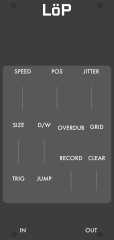
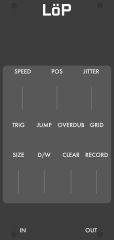
Löp control rearrange, black screw widgets, purple double-height Löp lane

diff --git a/src/loooop/Lop.cpp b/src/loooop/Lop.cpp
@@ -155,12 +155,21 @@ struct LopWidget : ModuleWidget {
         auto* display = new LoopDisplayWidget();
         display->engine = module ? &module->engine : nullptr;
         display->demoHeads = 1;
+        display->laneDiv = LoopWaveformRenderer::LOP_LANE_DIV;
+        display->laneColors = LoopWaveformRenderer::LOP_LANE_COLOR;
         // Screen rect (mm) from the SVG's screen rect element. Kept in sync
         // with vcv/res/Lop.svg and metamodule/Lop_info.hh by
         // metamodule/loooop/sync_info_positions.py — run it after any panel change.
         display->box.pos = mm2px(Vec(1.500, 10.400));
         display->box.size = mm2px(Vec(57.960, 22.350));
         addChild(display);
+
+        // Dark screws per the panel theme (the SVG's drawn screw dots are
+        // near-invisible against the background; the widgets carry the look).
+        addChild(createWidget<ScrewBlack>(Vec(RACK_GRID_WIDTH, 0)));
+        addChild(createWidget<ScrewBlack>(Vec(box.size.x - 2 * RACK_GRID_WIDTH, 0)));
+        addChild(createWidget<ScrewBlack>(Vec(RACK_GRID_WIDTH, RACK_GRID_HEIGHT - RACK_GRID_WIDTH)));
+        addChild(createWidget<ScrewBlack>(Vec(box.size.x - 2 * RACK_GRID_WIDTH, RACK_GRID_HEIGHT - RACK_GRID_WIDTH)));
 
         // Coords come from res/Lop.svg's hidden components layer (circle ids)
         // — regenerate the panel from panel-specs/lop.yaml and carry any
@@ -171,20 +180,20 @@ struct LopWidget : ModuleWidget {
         addInput(createInputCentered<PJ301MPort>(mm2px(Vec(12.16, 58.7)), module, Lop::SPEED_CV_INPUT));
         addInput(createInputCentered<PJ301MPort>(mm2px(Vec(30.48, 58.7)), module, Lop::POSITION_CV_INPUT));
         addInput(createInputCentered<PJ301MPort>(mm2px(Vec(48.8, 58.7)), module, Lop::JITTER_CV_INPUT));
-        addParam(createParamCentered<RoundBlackKnob>(mm2px(Vec(9.87, 75.05)), module, Lop::SIZE_PARAM));
-        addParam(createParamCentered<RoundBlackKnob>(mm2px(Vec(23.61, 75.05)), module, Lop::DRYWET_PARAM));
-        addParam(createLightParamCentered<OverdubButton>(mm2px(Vec(37.968, 75.05)), module, Lop::OVERDUB_PARAM, Lop::OVERDUB_R_LIGHT));
-        addParam(createParamCentered<RoundSmallBlackSnapKnob>(mm2px(Vec(51.708, 75.05)), module, Lop::GRID_PARAM));
-        addInput(createInputCentered<PJ301MPort>(mm2px(Vec(9.87, 87.4)), module, Lop::SIZE_CV_INPUT));
-        addInput(createInputCentered<PJ301MPort>(mm2px(Vec(23.61, 87.4)), module, Lop::DRYWET_CV_INPUT));
+        addInput(createInputCentered<PJ301MPort>(mm2px(Vec(9.87, 74.05)), module, Lop::TRIG_INPUT));
+        addInput(createInputCentered<PJ301MPort>(mm2px(Vec(23.61, 74.05)), module, Lop::JUMP_INPUT));
+        addParam(createLightParamCentered<OverdubButton>(mm2px(Vec(37.968, 74.05)), module, Lop::OVERDUB_PARAM, Lop::OVERDUB_R_LIGHT));
+        addParam(createParamCentered<RoundSmallBlackSnapKnob>(mm2px(Vec(51.708, 74.05)), module, Lop::GRID_PARAM));
+        addParam(createParamCentered<RoundBlackKnob>(mm2px(Vec(9.87, 91.05)), module, Lop::SIZE_PARAM));
+        addParam(createParamCentered<RoundBlackKnob>(mm2px(Vec(23.61, 91.05)), module, Lop::DRYWET_PARAM));
+        addParam(createParamCentered<VCVButton>(mm2px(Vec(37.968, 91.05)), module, Lop::CLEAR_PARAM));
+        addParam(createLightParamCentered<VCVLightButton<MediumSimpleLight<RedLight>>>(mm2px(Vec(51.708, 91.05)), module, Lop::RECORD_PARAM, Lop::RECORD_LIGHT));
+        addInput(createInputCentered<PJ301MPort>(mm2px(Vec(9.87, 103.4)), module, Lop::SIZE_CV_INPUT));
+        addInput(createInputCentered<PJ301MPort>(mm2px(Vec(23.61, 103.4)), module, Lop::DRYWET_CV_INPUT));
+        addInput(createInputCentered<PJ301MPort>(mm2px(Vec(37.968, 103.4)), module, Lop::CLEAR_TRIG_INPUT));
+        addInput(createInputCentered<PJ301MPort>(mm2px(Vec(51.708, 103.4)), module, Lop::RECORD_TRIG_INPUT));
         addInput(createInputCentered<PJ301MPort>(mm2px(Vec(7.35, 116.05)), module, Lop::AUDIO_L_INPUT));
         addInput(createInputCentered<PJ301MPort>(mm2px(Vec(17.05, 116.05)), module, Lop::AUDIO_R_INPUT));
-        addInput(createInputCentered<PJ301MPort>(mm2px(Vec(9.87, 102.1)), module, Lop::TRIG_INPUT));
-        addInput(createInputCentered<PJ301MPort>(mm2px(Vec(23.61, 102.1)), module, Lop::JUMP_INPUT));
-        addParam(createLightParamCentered<VCVLightButton<MediumSimpleLight<RedLight>>>(mm2px(Vec(37.968, 91.25)), module, Lop::RECORD_PARAM, Lop::RECORD_LIGHT));
-        addInput(createInputCentered<PJ301MPort>(mm2px(Vec(37.968, 102.1)), module, Lop::RECORD_TRIG_INPUT));
-        addParam(createParamCentered<VCVButton>(mm2px(Vec(51.708, 91.25)), module, Lop::CLEAR_PARAM));
-        addInput(createInputCentered<PJ301MPort>(mm2px(Vec(51.708, 102.1)), module, Lop::CLEAR_TRIG_INPUT));
         addOutput(createOutputCentered<PJ301MPort>(mm2px(Vec(43.91, 116.05)), module, Lop::OUT_L_OUTPUT));
         addOutput(createOutputCentered<PJ301MPort>(mm2px(Vec(53.61, 116.05)), module, Lop::OUT_R_OUTPUT));
     }

diff --git a/src/loooop/display/LoopWaveformRenderer.hpp b/src/loooop/display/LoopWaveformRenderer.hpp
@@ -26,26 +26,34 @@ public:
         {0x3F, 0x8C, 0xFF},
         {0xFF, 0xF7, 0x0A},
     };
+    // Löp's single lane draws purple — a color no Loooop head uses, so the
+    // two modules' displays can't be mistaken for each other — and at twice
+    // Loooop's lane height (height/4 vs height/8), the waveform giving up
+    // the difference. Both platforms (VCV widget, MM core) pass these.
+    static constexpr uint8_t LOP_LANE_COLOR[1][3] = {{0xBF, 0x5A, 0xF2}};
+    static constexpr int LANE_DIV = 8;
+    static constexpr int LOP_LANE_DIV = 4;
     // Window-extent bars use the head color dimmed by DIM_NUM/DIM_DEN.
     static constexpr int DIM_NUM = 2, DIM_DEN = 5;
     // A non-playing head (one-shot armed or finished, awaiting a trigger)
     // draws asleep: window bar dimmed to ARMED_NUM/ARMED_DEN, playhead
     // marker at the window-dim level instead of bright.
     static constexpr int ARMED_NUM = 1, ARMED_DEN = 5;
-    // Preferred lane band height. Use geometry() to cap the complete lane
-    // region to the actual destination height.
-    static constexpr int laneHeight(int height) {
-        return height / 8 < 3 ? 3 : height / 8;
+    // Preferred lane band height (height/laneDiv). Use geometry() to cap the
+    // complete lane region to the actual destination height.
+    static constexpr int laneHeight(int height, int laneDiv = LANE_DIV) {
+        return height / laneDiv < 3 ? 3 : height / laneDiv;
     }
     struct Geometry {
         int laneHeight;
         int lanesHeight;
         int waveHeight;
     };
-    static constexpr Geometry geometry(int height, int numHeads) {
+    static constexpr Geometry geometry(int height, int numHeads,
+                                       int laneDiv = LANE_DIV) {
         if (height <= 0 || numHeads <= 0) return {0, 0, 0};
-        const int laneH = laneHeight(height) < height / numHeads
-            ? laneHeight(height) : height / numHeads;
+        const int laneH = laneHeight(height, laneDiv) < height / numHeads
+            ? laneHeight(height, laneDiv) : height / numHeads;
         const int lanesH = numHeads * laneH;
         return {laneH, lanesH, height - lanesH};
     }
@@ -72,5 +80,6 @@ public:
     static void renderWaveform(uint32_t* buf, int width, int height,
                                const LoopEngine& engine, PackFn pack);
     static void renderLanes(uint32_t* buf, int width, int height, int laneHeight,
-                            const LoopEngine& engine, PackFn pack);
+                            const LoopEngine& engine, PackFn pack,
+                            const uint8_t (*headColors)[3] = HEAD_COLORS);
 };

diff --git a/tests/loooop/test_display_renderer.cpp b/tests/loooop/test_display_renderer.cpp
@@ -291,6 +291,36 @@ static void test_single_head_single_lane() {
           "single_head: wave region extends over old lane rows");
 }
 
+// Löp's display style: LOP_LANE_DIV doubles the lane band relative to
+// Loooop's, the waveform gives up the difference, and the lane draws in the
+// purple LOP_LANE_COLOR — never a Loooop head color.
+static void test_lop_style_double_purple_lane() {
+    LoopEngine e(1);
+    e.reset(48000.f, 1.f);
+    e.toggleRecord();
+    for (int i = 0; i < 4800; ++i)
+        e.process(std::sin(6.2831853f * i / 480.f) * 0.8f);
+    e.toggleRecord();
+    e.process(0.f);                       // one tick so the lane atomics update
+    const int W2 = 60, H2 = 48;
+    const auto g = LoopWaveformRenderer::geometry(
+        H2, 1, LoopWaveformRenderer::LOP_LANE_DIV);
+    check(g.laneHeight == 2 * LoopWaveformRenderer::laneHeight(H2),
+          "lop_style: lane band is twice Loooop's");
+    check(g.waveHeight == H2 - g.laneHeight,
+          "lop_style: waveform gives up the difference");
+    std::vector<uint32_t> lanes(W2 * g.lanesHeight);
+    LoopWaveformRenderer::renderLanes(lanes.data(), W2, g.lanesHeight,
+                                      g.laneHeight, e, pack,
+                                      LoopWaveformRenderer::LOP_LANE_COLOR);
+    check(countColorInRows(lanes, W2, 0, g.lanesHeight,
+                           LoopWaveformRenderer::LOP_LANE_COLOR[0]) > 0,
+          "lop_style: purple lane drawn");
+    check(countColorInRows(lanes, W2, 0, g.lanesHeight,
+                           LoopWaveformRenderer::HEAD_COLORS[0]) == 0,
+          "lop_style: no head-1 red anywhere");
+}
+
 // The split render (renderWaveform + renderLanes into adjoining regions) must
 // be byte-identical to the thin composed render() — the host caches call the
 // split entry points directly, so any divergence would silently change what
@@ -398,6 +428,7 @@ int main() {
     test_level_aware_height();
     test_tiny_display_combined();
     test_single_head_single_lane();
+    test_lop_style_double_purple_lane();
     test_split_render_matches_composed_render();
     test_tiny_heights_stay_within_destination();
     test_grid_bars();

diff --git a/src/loooop/LoopDisplay.hpp b/src/loooop/LoopDisplay.hpp
@@ -14,6 +14,10 @@ inline uint32_t loopDisplayPackRGBA(uint8_t r, uint8_t g, uint8_t b, uint8_t a) 
 struct LoopDisplayWidget : Widget {
     const LoopEngine* engine = nullptr;          // module engine; nullptr in browser
     int demoHeads = LoopEngine::NUM_HEADS;       // browser-preview head count
+    // Per-module display style: Löp overrides with LOP_LANE_DIV /
+    // LOP_LANE_COLOR (double-height purple lane); Loooop keeps the defaults.
+    int laneDiv = LoopWaveformRenderer::LANE_DIV;
+    const uint8_t (*laneColors)[3] = LoopWaveformRenderer::HEAD_COLORS;
     static constexpr int kOversample = 2;
     std::vector<uint32_t> wavePix, lanePix;
     int waveImg = -1, laneImg = -1;
@@ -43,7 +47,7 @@ struct LoopDisplayWidget : Widget {
             const int w = std::max(1, (int)std::round(box.size.x)) * kOversample;
             const int h = std::max(1, (int)std::round(box.size.y)) * kOversample;
             const LoopEngine& eng = engine ? *engine : demoEngine(demoHeads);
-            const auto geometry = LoopWaveformRenderer::geometry(h, eng.numHeads());
+            const auto geometry = LoopWaveformRenderer::geometry(h, eng.numHeads(), laneDiv);
             const int laneH = geometry.laneHeight;
             const int lanesH = geometry.lanesHeight;
             const int waveH = geometry.waveHeight;
@@ -71,7 +75,8 @@ struct LoopDisplayWidget : Widget {
                 cachedWaveGrid = grid;
             }
             LoopWaveformRenderer::renderLanes(
-                lanePix.data(), w, lanesH, laneH, eng, loopDisplayPackRGBA);
+                lanePix.data(), w, lanesH, laneH, eng, loopDisplayPackRGBA,
+                laneColors);
             if (laneImg < 0)
                 laneImg = nvgCreateImageRGBA(args.vg, w, lanesH, 0,
                     (const unsigned char*)lanePix.data());

diff --git a/src/loooop/display/LoopWaveformRenderer.cpp b/src/loooop/display/LoopWaveformRenderer.cpp
@@ -122,7 +122,8 @@ void LoopWaveformRenderer::renderWaveform(uint32_t* buf, int width, int height,
 }
 
 void LoopWaveformRenderer::renderLanes(uint32_t* buf, int width, int height,
-                                       int laneH, const LoopEngine& engine, PackFn pack) {
+                                       int laneH, const LoopEngine& engine, PackFn pack,
+                                       const uint8_t (*headColors)[3]) {
     if (width <= 0 || height <= 0 || laneH <= 0) return;
     const uint32_t bg = pack(BG[0], BG[1], BG[2], 0xFF);
     std::fill(buf, buf + std::size_t(width) * height, bg);
@@ -136,7 +137,7 @@ void LoopWaveformRenderer::renderLanes(uint32_t* buf, int width, int height,
     const int lanesTop = 0;
     const int hw = std::max(2, width / 90);   // playhead bar width
     for (int i = 0; i < nHeads; ++i) {
-        const uint8_t* c = HEAD_COLORS[i];
+        const uint8_t* c = headColors[i];
         const uint32_t dimC = pack(uint8_t(int(c[0]) * DIM_NUM / DIM_DEN),
                                    uint8_t(int(c[1]) * DIM_NUM / DIM_DEN),
                                    uint8_t(int(c[2]) * DIM_NUM / DIM_DEN), 0xFF);

diff --git a/metamodule/loooop/LopCore.cc b/metamodule/loooop/LopCore.cc
@@ -121,7 +121,10 @@ public:
         dispDirty_ = active;    // one final repaint after going idle (e.g. clear)
         const int width = int(dispWidth_);
         const int height = int(dispBuf_.size() / dispWidth_);
-        const auto geometry = LoopWaveformRenderer::geometry(height, engine_.numHeads());
+        // Löp display style: double-height purple lane (see LOP_LANE_* in
+        // LoopWaveformRenderer.hpp) — must match the VCV widget.
+        const auto geometry = LoopWaveformRenderer::geometry(
+            height, engine_.numHeads(), LoopWaveformRenderer::LOP_LANE_DIV);
         const int laneH = geometry.laneHeight;
         const int lanesH = geometry.lanesHeight;
         const int waveH = geometry.waveHeight;
@@ -142,7 +145,8 @@ public:
         }
         LoopWaveformRenderer::renderLanes(
             dispBuf_.data() + size_t(waveH) * width,
-            width, lanesH, laneH, engine_, packARGB);
+            width, lanesH, laneH, engine_, packARGB,
+            LoopWaveformRenderer::LOP_LANE_COLOR);
         return true;
     }
 

diff --git a/src/loooop/Loooop.cpp b/src/loooop/Loooop.cpp
@@ -222,6 +222,13 @@ struct LoooopWidget : ModuleWidget {
         display->box.size = mm2px(Vec(190.040, 22.350));
         addChild(display);
 
+        // Dark screws per the panel theme (the SVG's drawn screw dots are
+        // near-invisible against the background; the widgets carry the look).
+        addChild(createWidget<ScrewBlack>(Vec(RACK_GRID_WIDTH, 0)));
+        addChild(createWidget<ScrewBlack>(Vec(box.size.x - 2 * RACK_GRID_WIDTH, 0)));
+        addChild(createWidget<ScrewBlack>(Vec(RACK_GRID_WIDTH, RACK_GRID_HEIGHT - RACK_GRID_WIDTH)));
+        addChild(createWidget<ScrewBlack>(Vec(box.size.x - 2 * RACK_GRID_WIDTH, RACK_GRID_HEIGHT - RACK_GRID_WIDTH)));
+
         // Per-head knobs and their CV jacks. On the panel each head is a
         // block: Size/Position/Speed on the upper knob row, Jitter/Pan/Level on
         // the lower, with a CV jack directly under each knob. These calls are

diff --git a/docs/superpowers/plans/2026-07-11-lop-overdub-grid-polish-user-checklist.md b/docs/superpowers/plans/2026-07-11-lop-overdub-grid-polish-user-checklist.md
@@ -22,3 +22,14 @@ Build installed to Rack2 plugins dir on 2026-07-11. In VCV Rack:
 - [ ] MetaModule: no behavior change (Overdub/Write mode/Grid stay menu
       params there); rebuild the .mmplugin whenever you next cut one so the
       updated faceplate PNG ships.
+
+## Round 2 (same day): layout rework, screws, display strip
+
+- [ ] Löp rows now read Speed/Pos/Jitter, then Trig/Jump/Overdub/Grid, then
+      Size/D-W/Clear/Record — labels, control centers, and jacks each on
+      shared lines per row.
+- [ ] Both modules show dark screws in Rack (stock ScrewBlack widgets — the
+      SVG's drawn dots were invisible against the background).
+- [ ] Löp's loop display: lane strip twice Loooop's height, waveform
+      correspondingly shorter, strip purple (#bf5af2) — on VCV and on the
+      rebuilt .mmplugin (metamodule/metamodule-plugins/RobotBoy.mmplugin).
